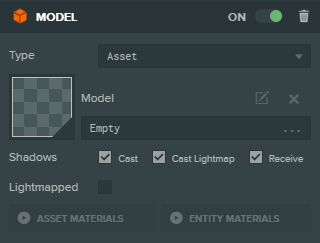
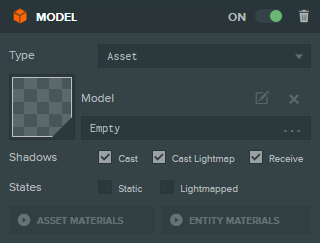
Update model component to latest.

diff --git a/content/en/user-manual/packs/components/model.md b/content/en/user-manual/packs/components/model.md
@@ -16,12 +16,26 @@ The Model component can be enabled or disabled using the toggle in the top right
     <col class="property-name"></col>
     <col class="property-description"></col>
     <tr><th>Property</th><th>Description</th></tr>
-    <tr><td>Type</td><td>The type of the model to be rendered. Can be:<ul><li>Asset</li><li>Box</li><li>Capsule</li><li>Sphere</li><li>Cylinder</li><li>Cone</li></ul></td></tr>
+    <tr>
+        <td>Type</td>
+        <td>The type of the model to be rendered. Can be:
+            <ul>
+                <li>Asset</li>
+                <li>Box</li>
+                <li>Capsule</li>
+                <li>Cone</li>
+                <li>Cylinder</li>
+                <li>Plane</li>
+                <li>Sphere</li>
+            </ul>
+        </td>
+    </tr>
     <tr><td>Asset</td><td>The model asset rendered by this model component. Only applies to models of type 'asset'. Only a single model can be rendered per model component.</td></tr>
-    <tr><td>Lightmapped</td><td>If enabled, this model does not receive lighting from dynamic lights. Instead it receives lighting generated by lightmap lights.</td></tr>
     <tr><td>Cast Shadows</td><td>If enabled, the model rendered by this component will cast shadows onto other models in the scene.</td></tr>
     <tr><td>Cast Lightmap Shadows</td><td>If enabled, the model rendered by this component will cast shadows into lightmaps.</td></tr>
     <tr><td>Receive Shadows</td><td>If enabled, the model rendered by this component will receive shadows cast by other models in the scene.</td></tr>
+    <tr><td>Static</td><td>If the model never moves, check this box as a hint to the engine to make certain optimizations.</td></tr>
+    <tr><td>Lightmapped</td><td>If enabled, this model does not receive lighting from dynamic lights. Instead it receives lighting generated by lightmap lights.</td></tr>
 </table>
 
 ## Scripting Interface
